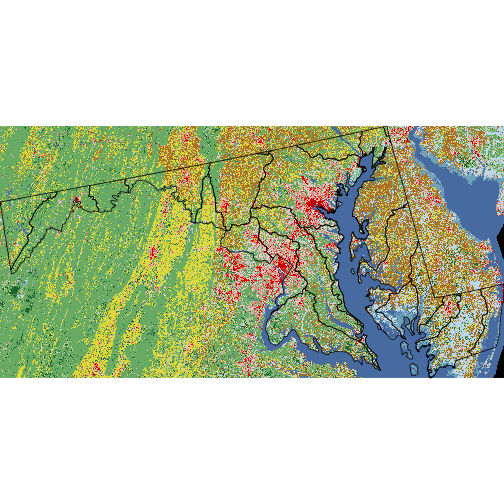
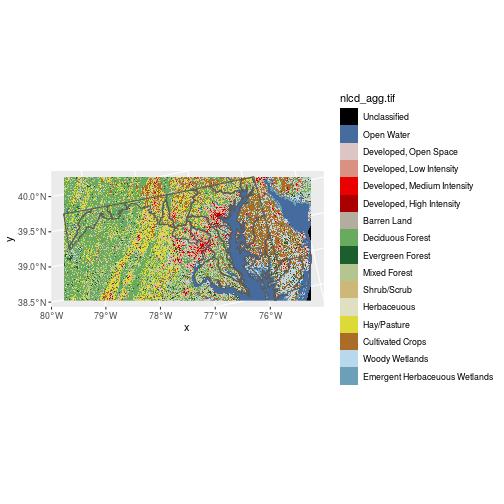
remove fig keep last on any ggplot figs

diff --git a/docs/_slides/raster.md b/docs/_slides/raster.md
@@ -124,6 +124,19 @@ original image file, we have to extract the color scheme using
 
 
 
+~~~r
+md_bbox <- st_bbox(huc_md)
+nlcd <- st_crop(nlcd, md_bbox)
+
+ggplot() +
+  geom_stars(data = nlcd) +
+  geom_sf(data = huc_md, fill = NA) +
+  scale_fill_manual(values = attr(nlcd[[1]], 'colors'))
+~~~
+{:title="{{ site.data.lesson.handouts[0] }}" .text-document}
+![ ]({% include asset.html path="images/raster/unnamed-chunk-4-1.png" %})
+{:.captioned}
+
 ===
 
 A raster is fundamentally a data matrix, and individual pixel values can be
